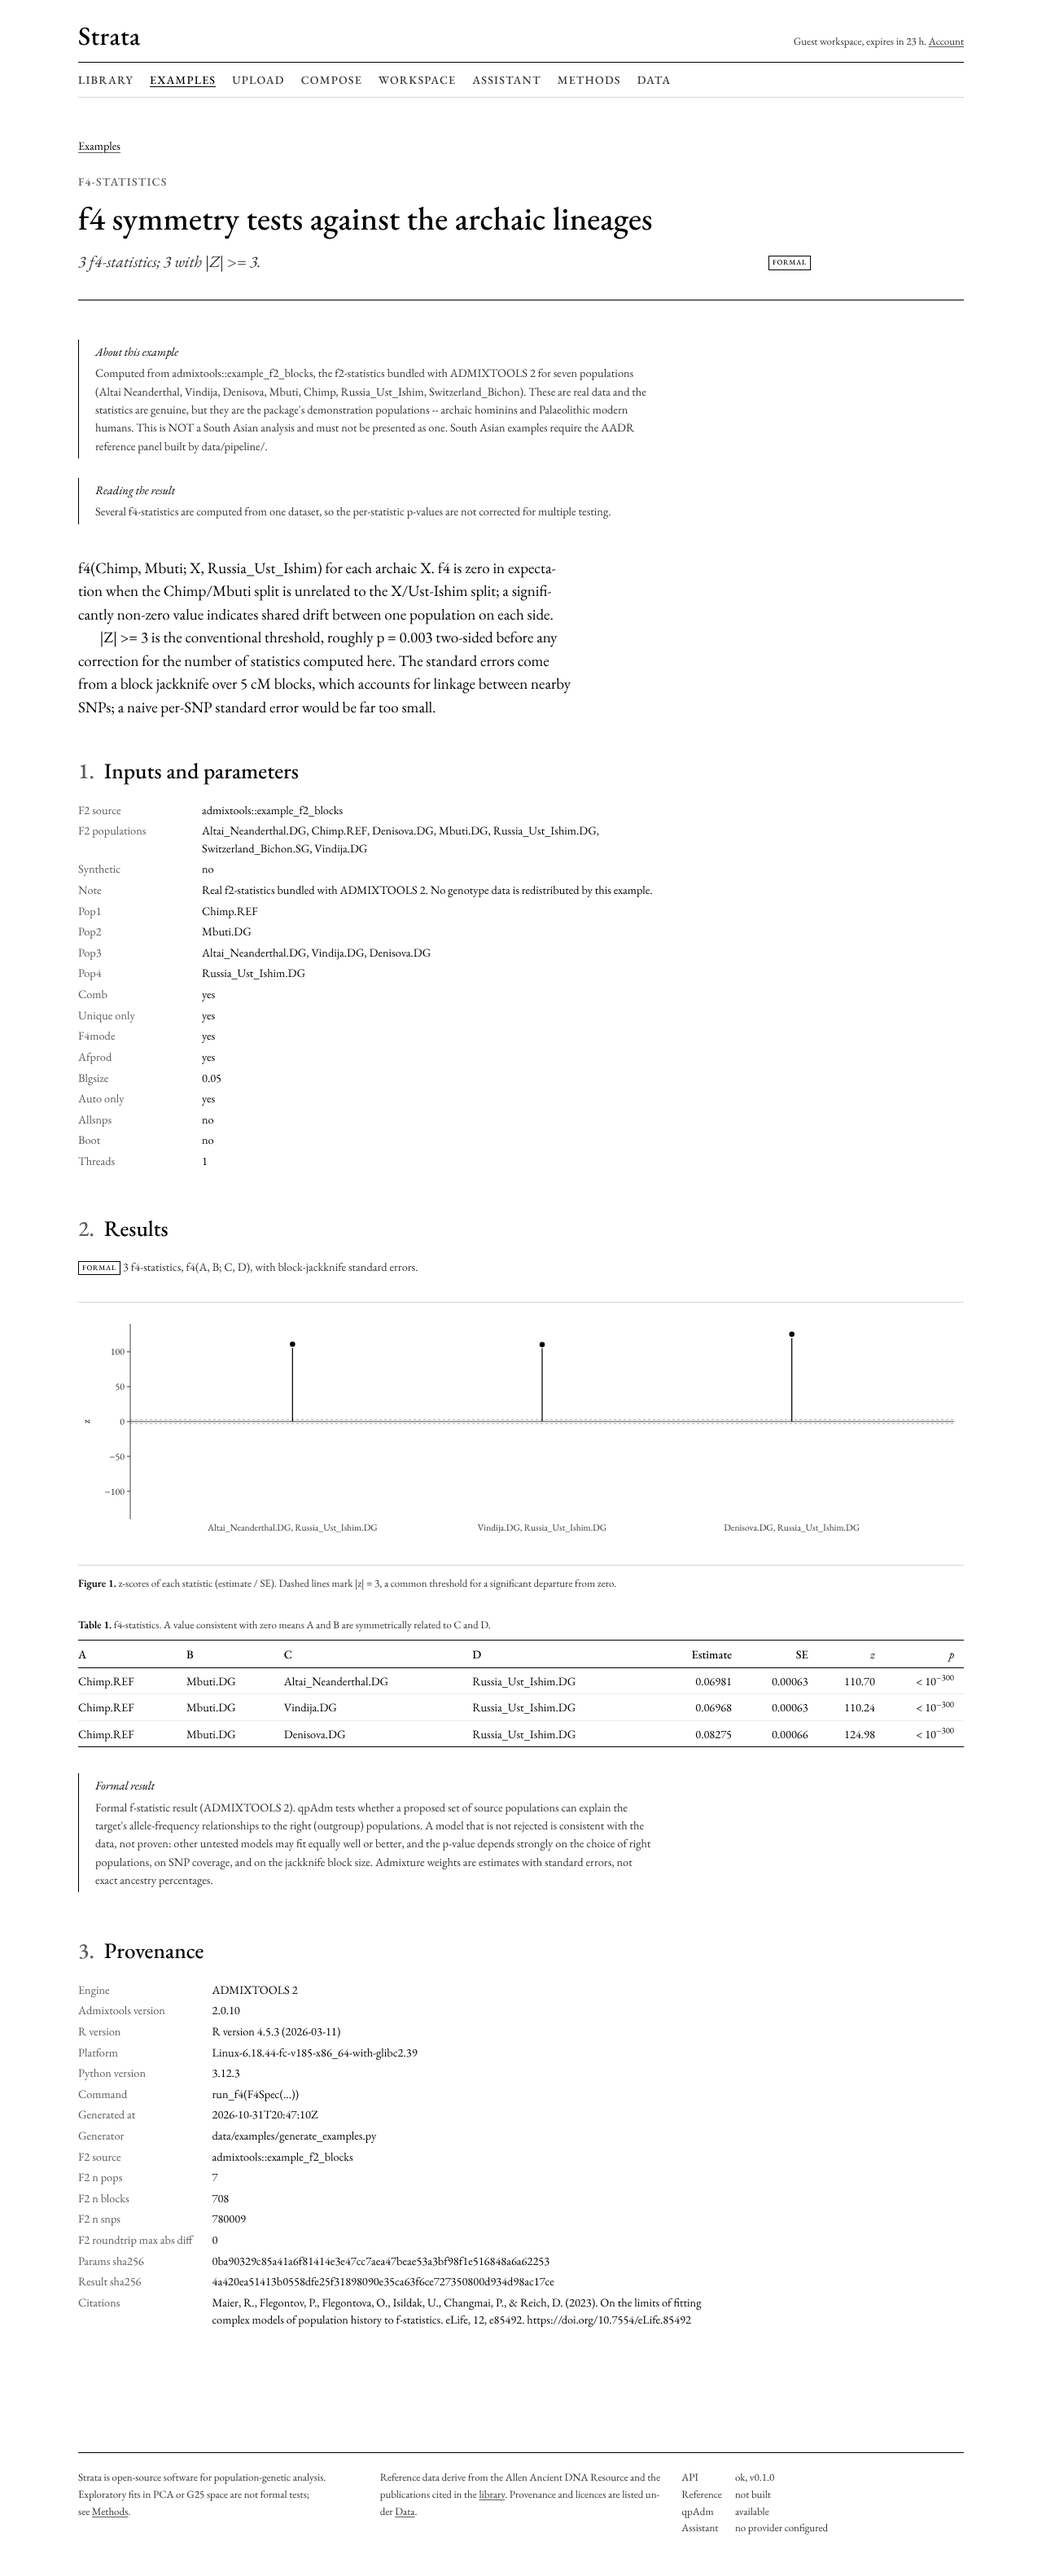
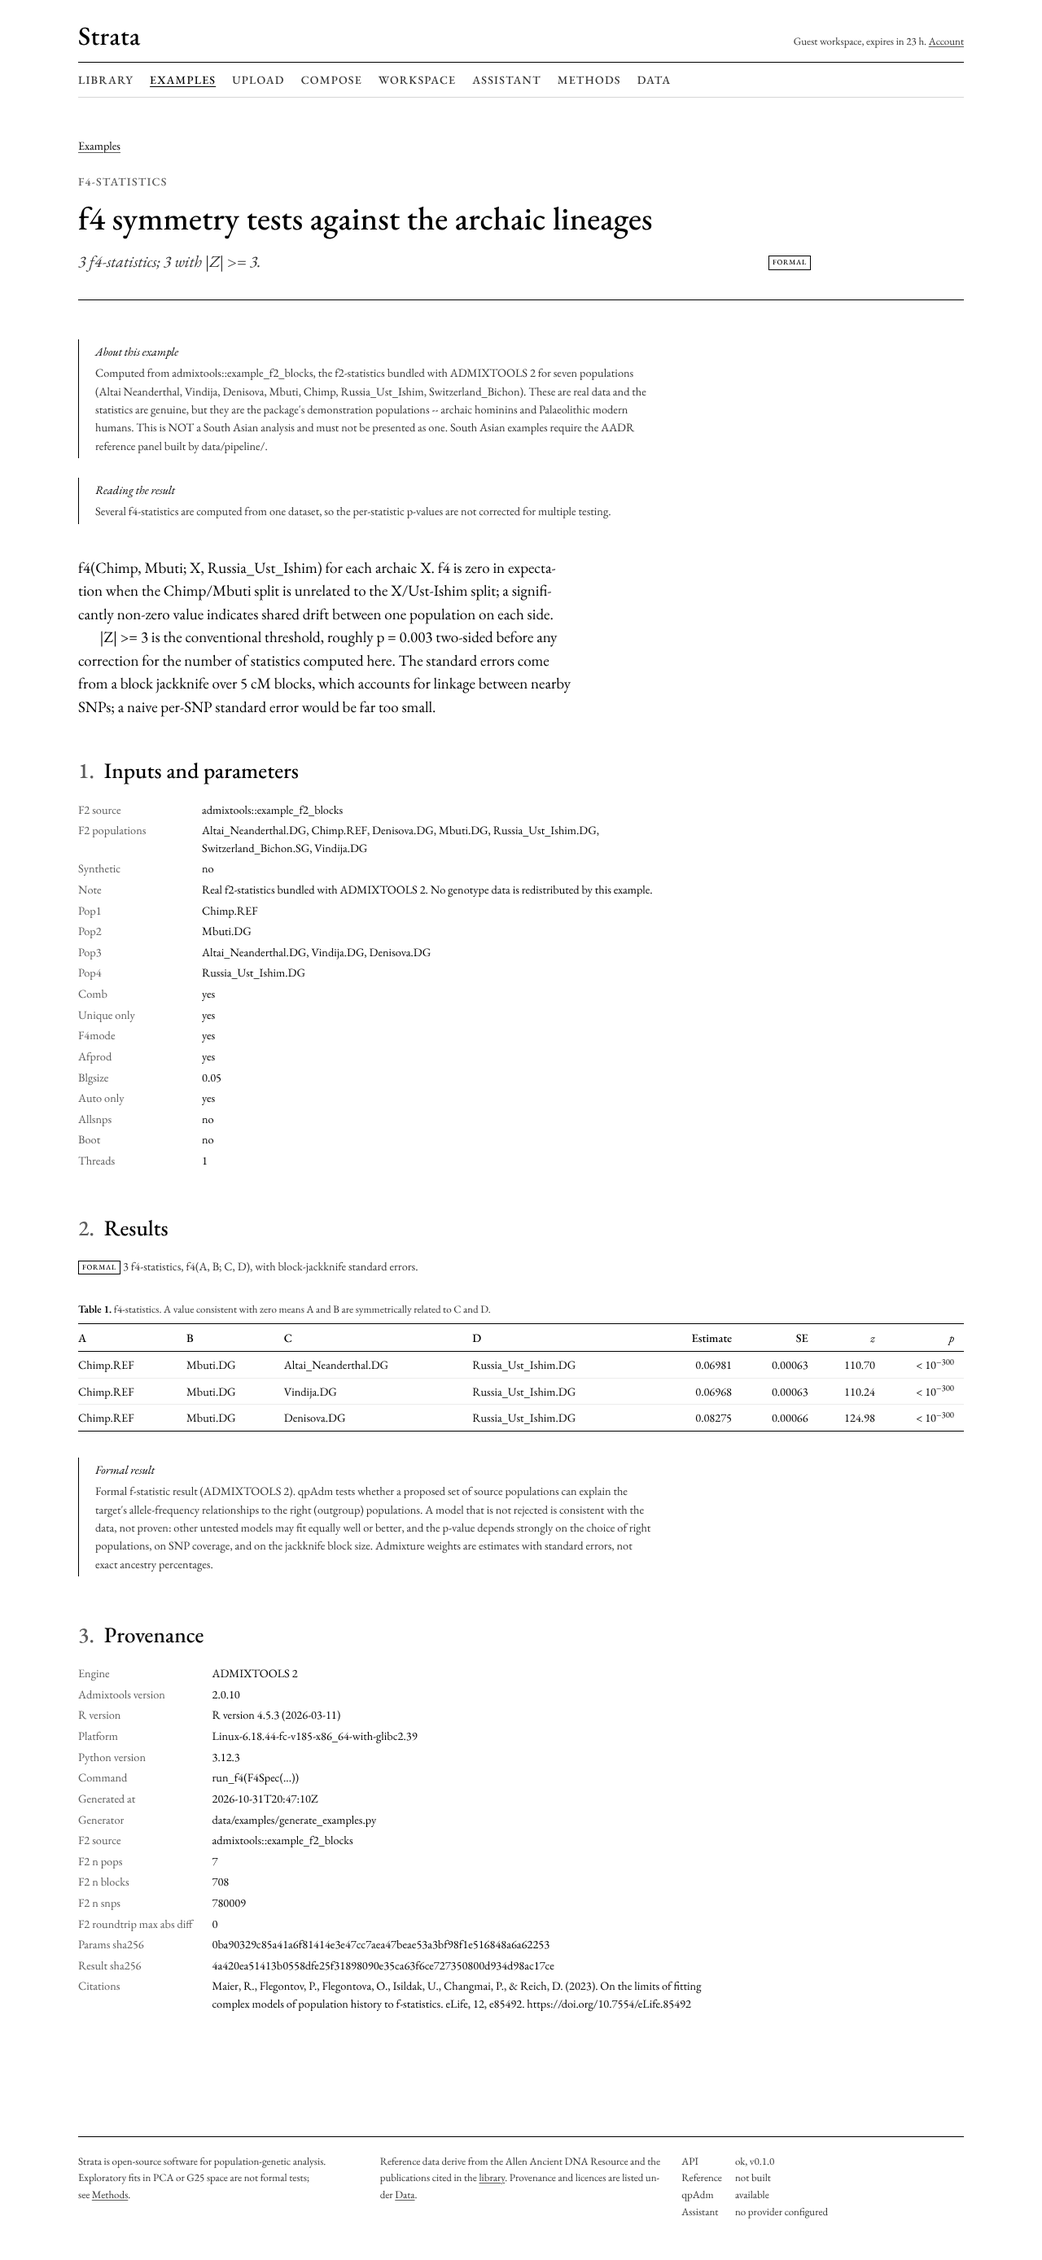
Web: keep p-values on one line, f4 chart only for six or more statistics
Claude-Session: https://claude.ai/code/session_01HEuHS1mpdQ7qy1BH3gQckc

diff --git a/apps/web/src/components/results/ResultView.tsx b/apps/web/src/components/results/ResultView.tsx
@@ -524,10 +524,10 @@ function QpAdmView({ r, compact }: { r: QpAdmResult; compact: boolean }) {
                   <td className="r num">{t.rank}</td>
                   <td className="r num">{t.dof}</td>
                   <td className="r num">{fixed(t.chisq, 2)}</td>
-                  <td className="r num">{pv(t.p)}</td>
+                  <td className="r num whitespace-nowrap">{pv(t.p)}</td>
                   <td className="r num">{t.dofdiff ?? "—"}</td>
                   <td className="r num">{t.chisqdiff !== null && t.chisqdiff !== undefined ? fixed(t.chisqdiff, 2) : "—"}</td>
-                  <td className="r num">{pv(t.p_nested)}</td>
+                  <td className="r num whitespace-nowrap">{pv(t.p_nested)}</td>
                 </tr>
               ))}
             </tbody>
@@ -648,7 +648,7 @@ function QpAdmRotateView({ r }: { r: QpAdmRotateResult }) {
                       <span className="mt-0.5 block text-caption text-ink-3">{m.feasibility.reasons.join(" ")}</span>
                     ) : null}
                   </td>
-                  <td className="r num">{pv(m.p_value)}</td>
+                  <td className="r num whitespace-nowrap">{pv(m.p_value)}</td>
                   <td className="r num">{fixed(m.chisq, 2)}</td>
                   <td className="r num">{m.dof}</td>
                   <td className={`italic ${verdictClass(v)}`}>{v}</td>
@@ -674,7 +674,8 @@ function F4View({ r }: { r: F4StatResult }) {
         <KindMark kind="formal" /> <span className="num">{rows.length}</span> f4-statistic{rows.length === 1 ? "" : "s"},
         f4(A, B; C, D), with block-jackknife standard errors.
       </p>
-      {rows.some((f) => f.z !== null) ? (
+      {/* A figure only earns its place with enough statistics to compare; a few read better as a table. */}
+      {rows.filter((f) => f.z !== null).length >= 6 ? (
         <Figure
           n={1}
           caption="z-scores of each statistic (estimate / SE). Dashed lines mark |z| = 3, a common threshold for a significant departure from zero."
@@ -715,7 +716,7 @@ function F4View({ r }: { r: F4StatResult }) {
                 <td className="r num">{fixed(f.est, 5)}</td>
                 <td className="r num">{fixed(f.se, 5)}</td>
                 <td className="r num">{fixed(f.z, 2)}</td>
-                <td className="r num">{pv(f.p)}</td>
+                <td className="r num whitespace-nowrap">{pv(f.p)}</td>
               </tr>
             ))}
           </tbody>
@@ -770,8 +771,8 @@ function QpWaveView({ r }: { r: QpWaveResult }) {
                 <td className="r num">{t.rank}</td>
                 <td className="r num">{t.dof}</td>
                 <td className="r num">{fixed(t.chisq, 2)}</td>
-                <td className="r num">{pv(t.p)}</td>
-                <td className="r num">{pv(t.p_nested)}</td>
+                <td className="r num whitespace-nowrap">{pv(t.p)}</td>
+                <td className="r num whitespace-nowrap">{pv(t.p_nested)}</td>
               </tr>
             ))}
           </tbody>
